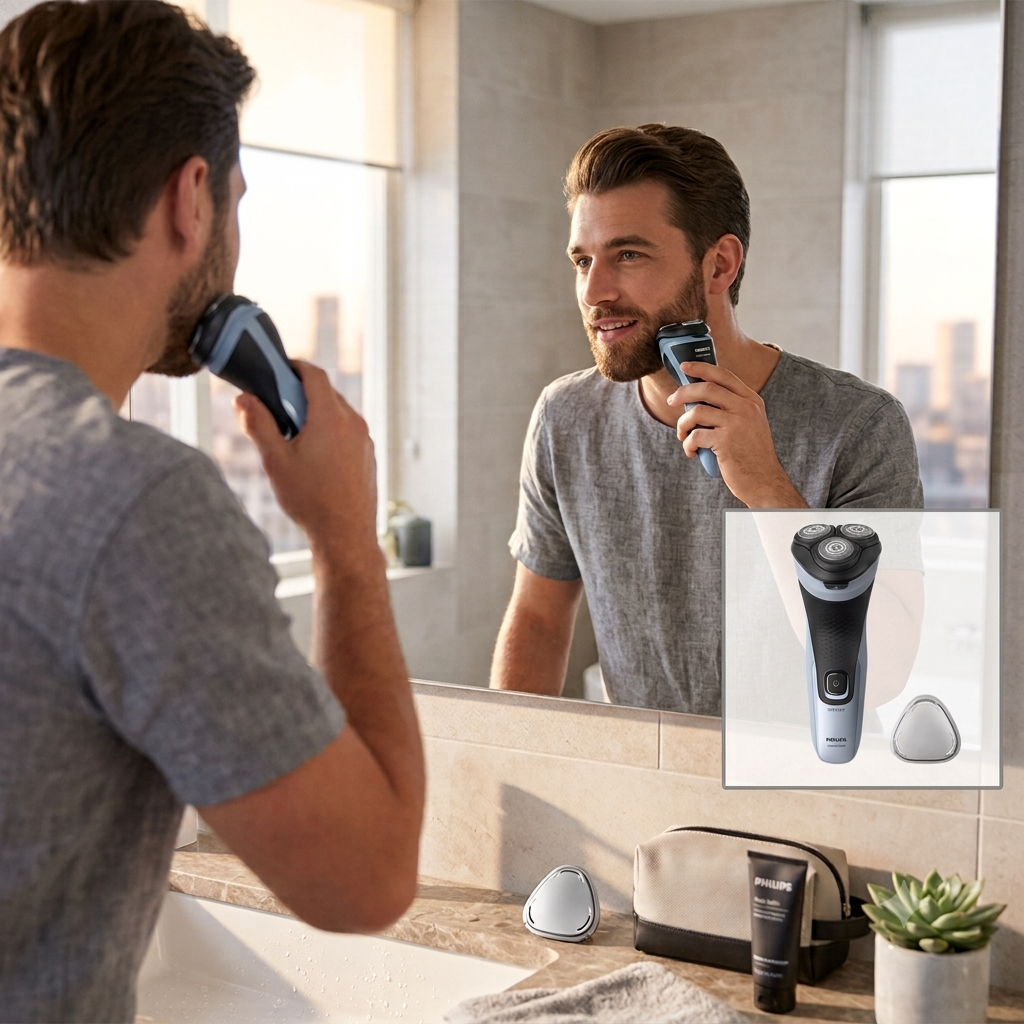
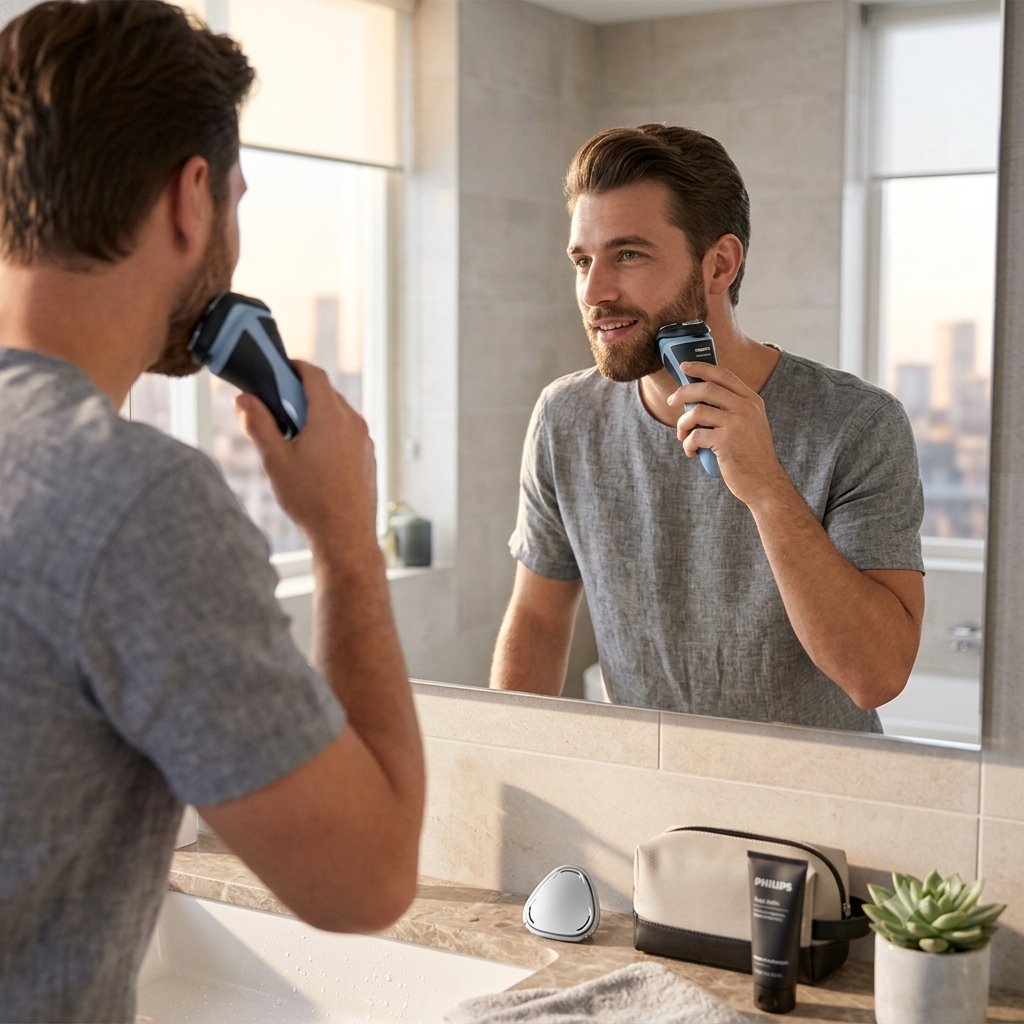
fix: foto limpia sin recuadro incrustado + eslogan más grande
Sustituida la foto por la versión sin el recuadro de producto en la
esquina (ya no hace falta el recorte agresivo que lo escondía, se
relaja a un encuadre más natural). 'Mucho más que papel' subido de
24px a 30px, quedaba pequeño frente al resto de la jerarquía.

diff --git a/design-studio/templates/ofipapel-afeitadora-x3003-cinematico.html b/design-studio/templates/ofipapel-afeitadora-x3003-cinematico.html
@@ -12,7 +12,7 @@
 html,body { width:1080px; height:1350px; overflow:hidden; font-family:'Outfit',sans-serif; }
 body { position:relative; background:#000; }
 .hero { position:absolute; inset:0; overflow:hidden; }
-.hero img { width:100%; height:100%; object-fit:cover; object-position:32% 20%; transform:scale(1.38); transform-origin:32% 14%; }
+.hero img { width:100%; height:100%; object-fit:cover; object-position:35% 25%; transform:scale(1.06); transform-origin:35% 25%; }
 .grad { position:absolute; inset:0; background:linear-gradient(to top, rgba(8,20,8,0.92) 0%, rgba(8,20,8,0.55) 32%, rgba(8,20,8,0.0) 62%); }
 .grad-top { position:absolute; top:0; left:0; right:0; height:320px; background:linear-gradient(to bottom, rgba(6,16,6,0.55) 0%, rgba(6,16,6,0.24) 55%, rgba(6,16,6,0) 100%); }
 .logo { position:absolute; top:48px; left:64px; width:230px; filter:drop-shadow(0 3px 12px rgba(0,0,0,0.6)) drop-shadow(0 0 20px rgba(0,0,0,0.4)); }
@@ -27,7 +27,7 @@ body { position:relative; background:#000; }
 .icon-item span { font-family:'Outfit'; font-weight:400; font-size:18px; color:rgba(255,255,255,0.78); letter-spacing:0.01em; text-align:center; line-height:1.15; }
 .cta { position:absolute; left:64px; bottom:172px; font-family:'Outfit'; font-weight:700; font-size:37px; color:#fff; text-shadow:0 4px 16px rgba(0,0,0,0.4); }
 .cta span { border-bottom:3px solid #8DC41E; padding-bottom:6px; }
-.tagline { position:absolute; left:64px; bottom:108px; font-family:'Outfit'; font-weight:700; font-style:italic; font-size:24px; letter-spacing:0.005em; color:rgba(255,255,255,0.85); }
+.tagline { position:absolute; left:64px; bottom:106px; font-family:'Outfit'; font-weight:700; font-style:italic; font-size:30px; letter-spacing:0.005em; color:rgba(255,255,255,0.85); }
 .tagline em { font-style:italic; color:#8DC41E; }
 .footer { position:absolute; bottom:50px; left:64px; right:64px; display:flex; justify-content:space-between; align-items:center; font-family:'Outfit'; font-weight:400; font-size:29px; color:rgba(255,255,255,0.72); letter-spacing:0.02em; }
 .footer .contact { display:flex; align-items:center; gap:12px; }
